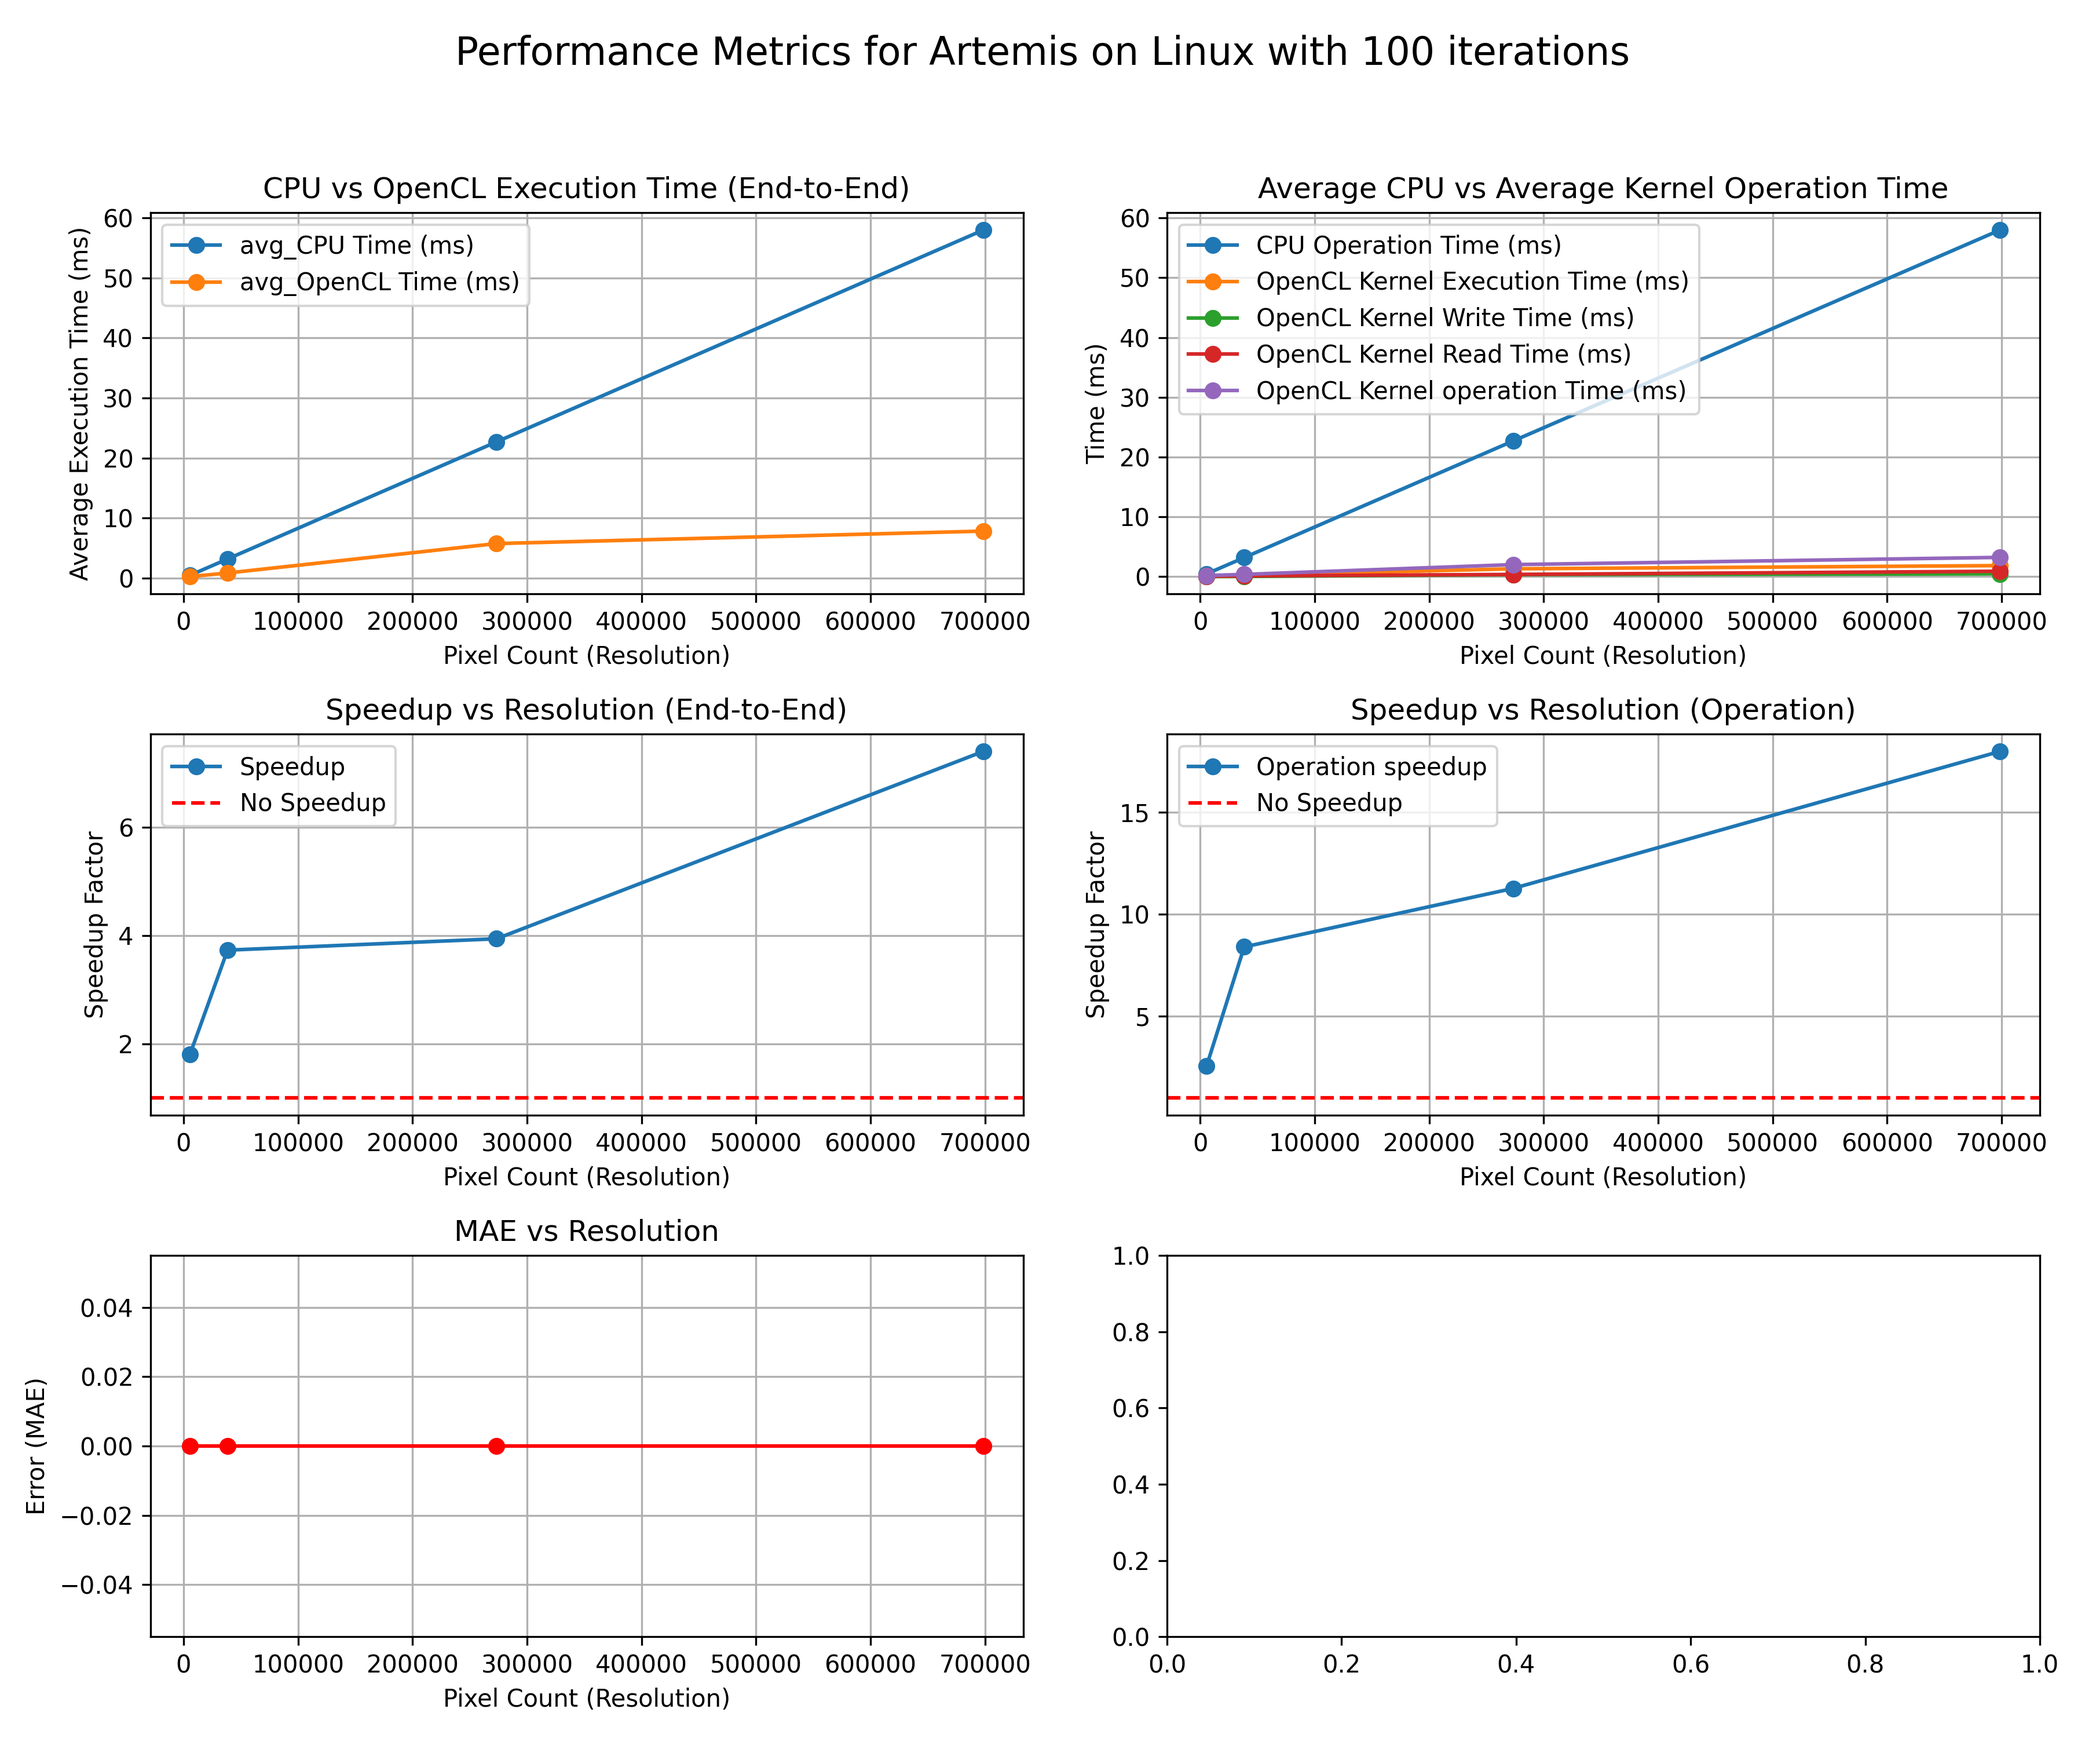
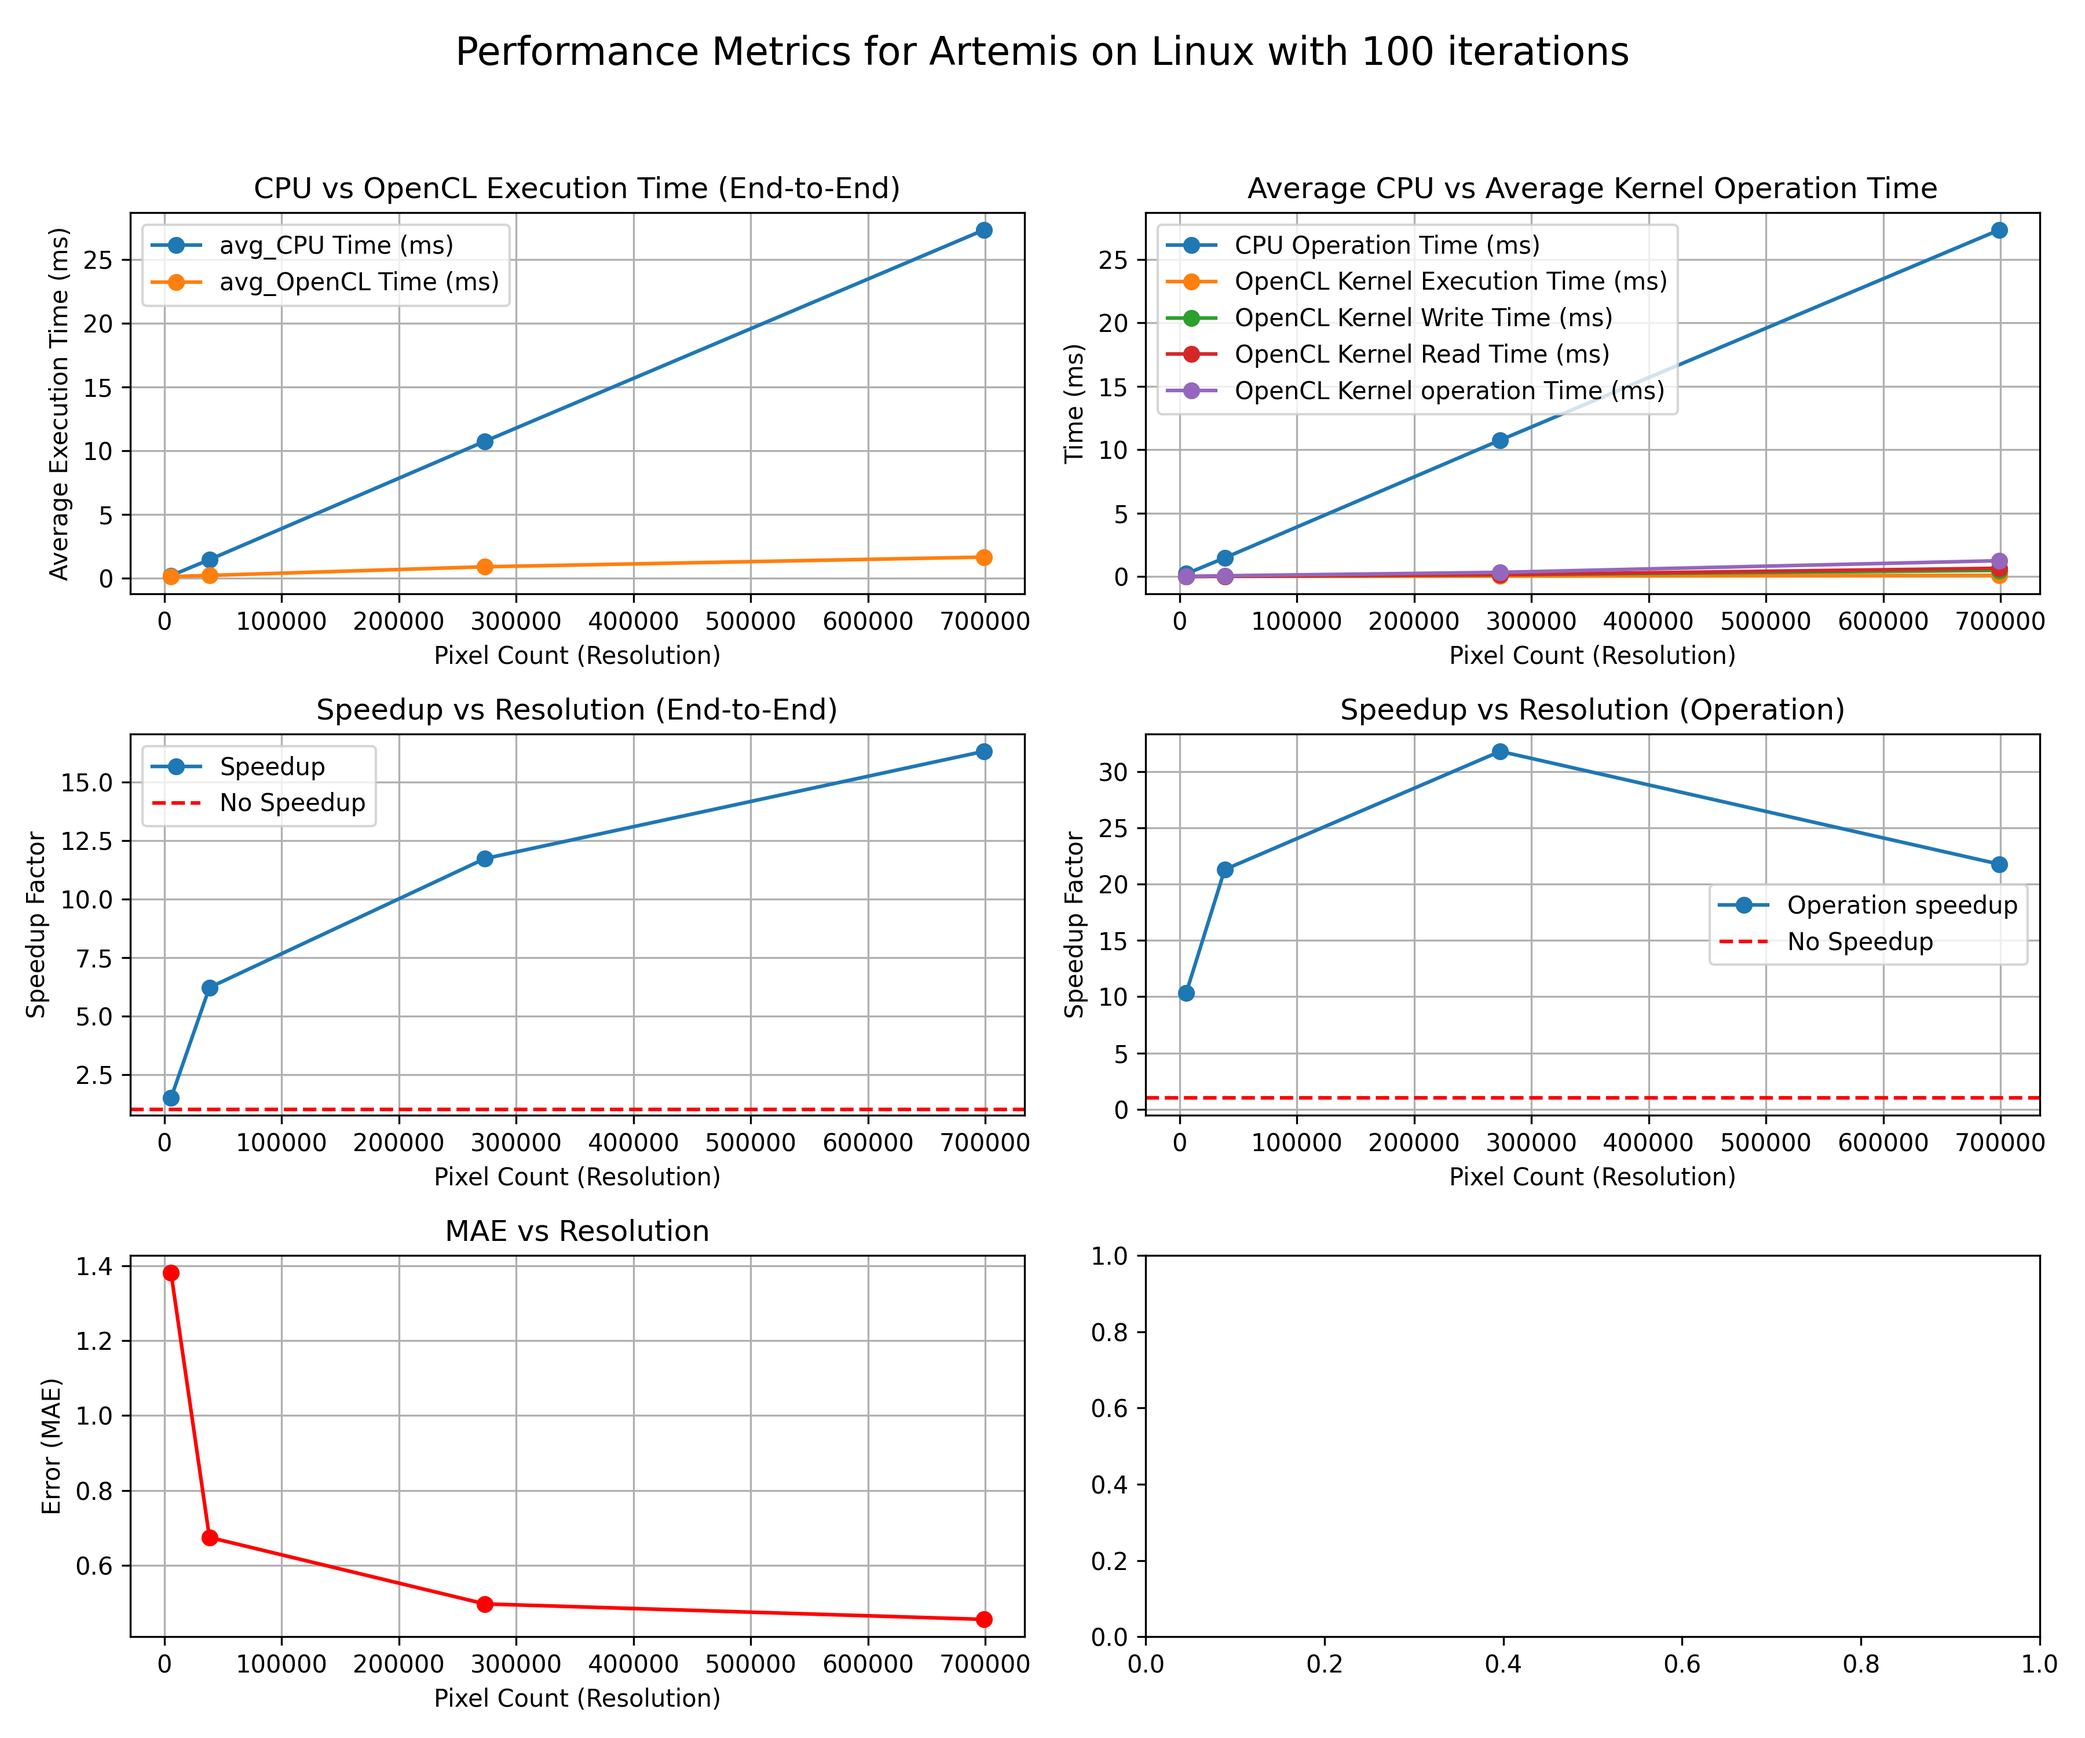
performed test on linux for GaussianBlur

diff --git a/src/GaussianBlur/results/visualisation.py b/src/GaussianBlur/results/visualisation.py
@@ -4,7 +4,7 @@ import matplotlib.pyplot as plt
 
 # 0 - Linux
 # 1 - Windows
-USING_OS = 1
+USING_OS = 0
 
 # 0 - Debug
 # 1- Release
